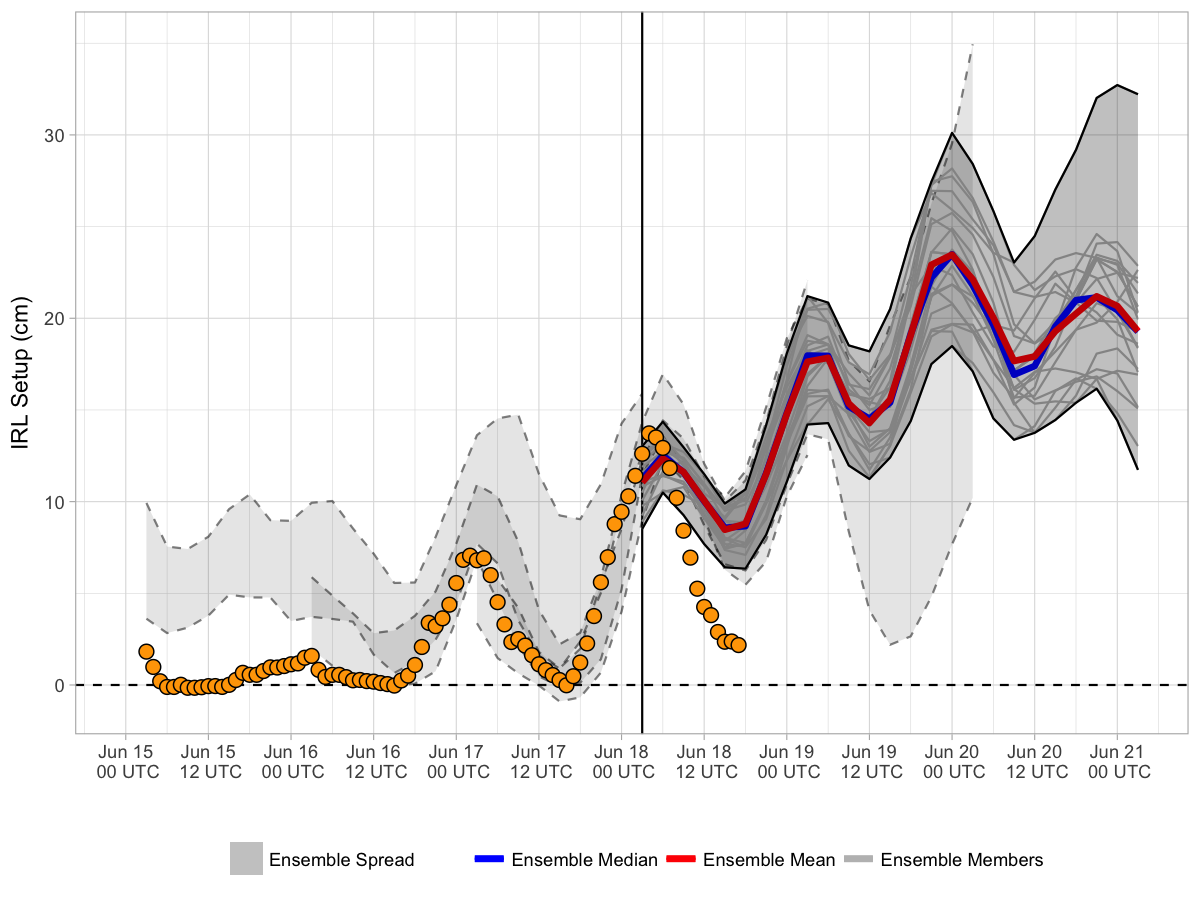
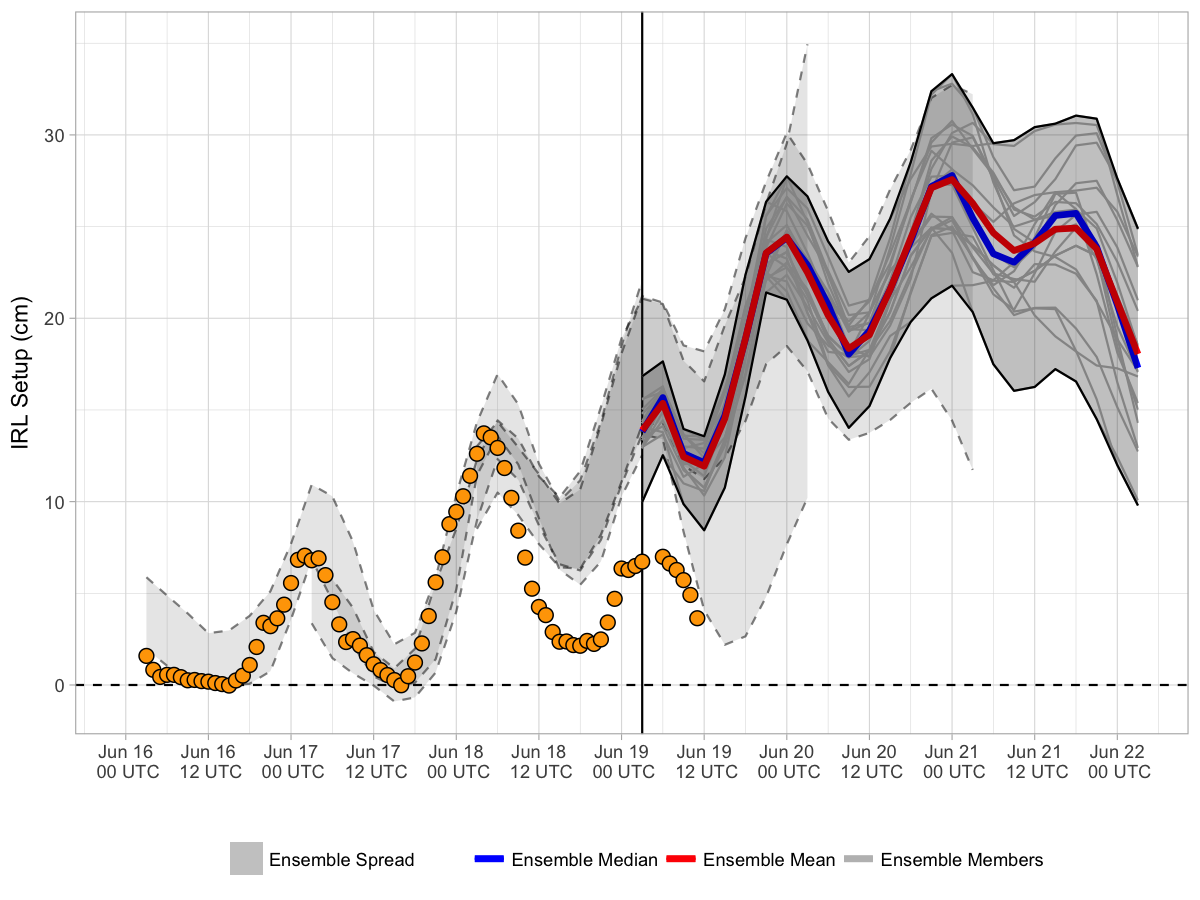
20170619 forecast update

Changed region(s): [[0.0925, 0.0622, 0.9558, 0.7778], [0.2467, 0.5289, 0.2775, 0.56]]

diff --git a/docs/index.md b/docs/index.md
@@ -3,7 +3,7 @@ Current Forecast
 
 [![](img/raw_setup.png)](https://bhlmn.github.io/IRLSetup/img/raw_setup.png)
 
-> Forecast valid 2017-06-18 13:51:16.
+> Forecast valid 2017-06-19 07:51:24.
 
 Explanation
 -----------
@@ -15,7 +15,7 @@ water elevation in the northern IRL (near Titusville), and negative
 setup indicates the increase elevation in the southern IRL (near
 Sebastian). The x-axis displays the date and time in UTC. The solid
 vertical line represents the beginning of the most recent ensemble
-forecast (currently 2017-06-17 18:00:00). For this most recent forecast,
+forecast (currently 2017-06-18 18:00:00). For this most recent forecast,
 the ensemble spread (grey shading) is bound by solid black lines, with
 individual members represented by faint grey lines. The ensemble mean
 and median for this are represented by the red and blue curves,
